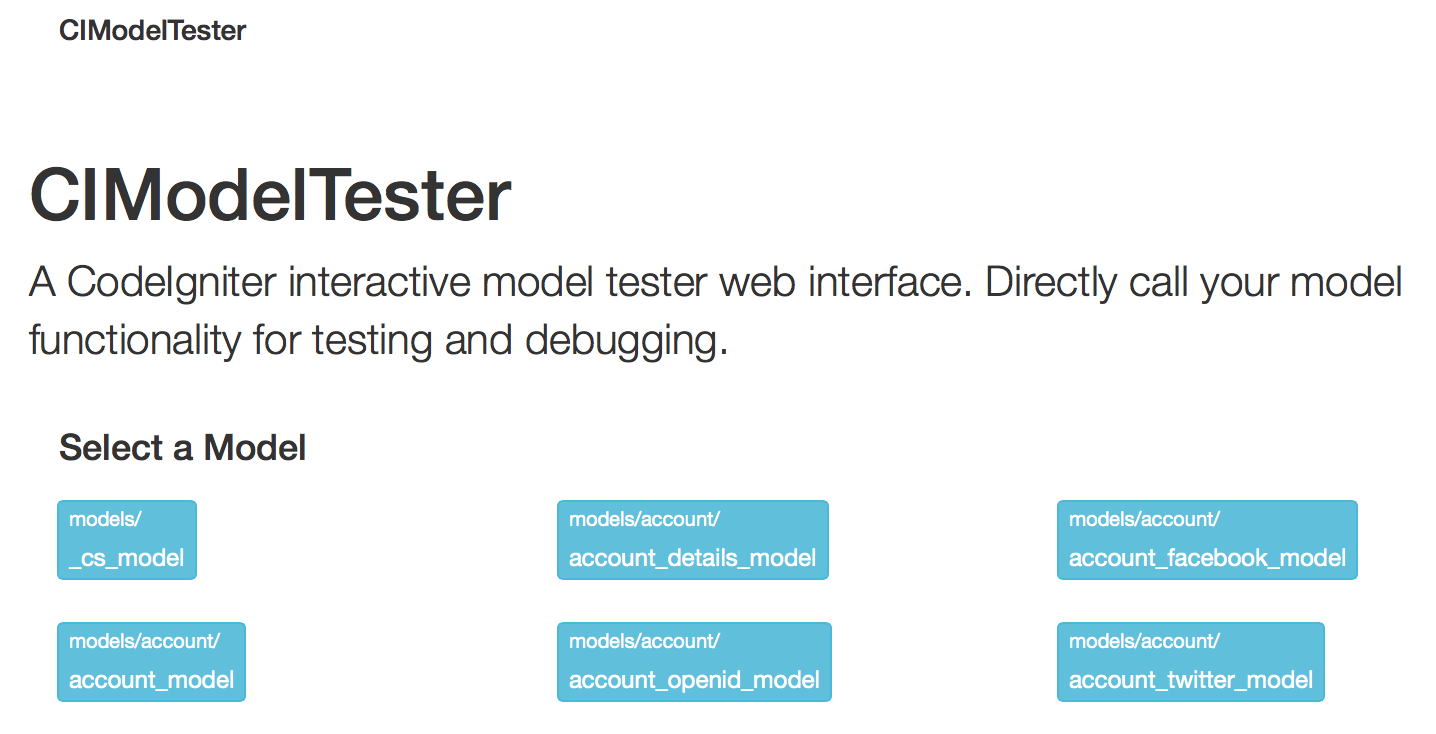
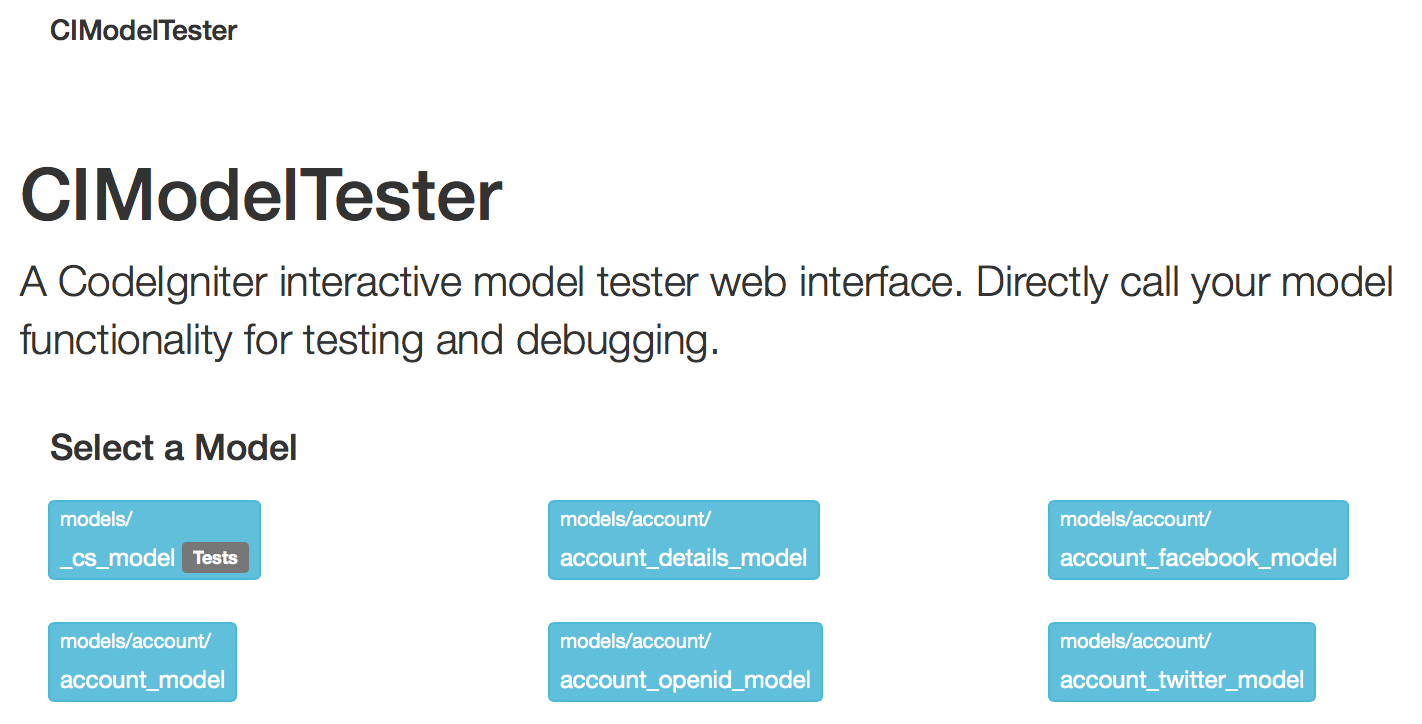
Minor bug fixes. Updated mainpage.png to show the 'Tests' label.

diff --git a/modeltester.php b/modeltester.php
@@ -294,14 +294,16 @@ class CIModelTester extends CI_Controller {
 			$bod .= "    <pre><code>".
 "&lt;?php if ( ! defined('BASEPATH')) exit('No direct script access allowed');\n".
 "\n".
+"require_once('LoadTestData.php');\n".
+"\n".
 "class ".$tvarmodel." extends ".$srcmodel."\n".
 "{\n".
 "    function __construct() { parent::__construct(); }\n".
 "\n".
 "    // Generic Model tests\n".
 "    public function test() {\n".
-"        \$retval = pack_ret(\$v = 1);\n".
-"        \$this->unit->run(\$v,1,'v is 1');\n".
+"        \$retval = LoadData1(); // User created function in LoadTestData.php\n".
+"        [GENERIC TESTS]\n".
 "        return \$retval;\n".
 "    }\n".
 "\n".
@@ -309,7 +311,9 @@ class CIModelTester extends CI_Controller {
 "\n".
 "    // Tests specific to a method\n".
 "    public function test_[YOUR METHOD]() {\n".
-"        \$this->unit->run(1,1,'Is One One');\n".
+"        \$retval = LoadData1();\n".
+"        \$retval = pack_ret(\$v = \$this->[YOUR METHOD]());\n".
+"        \$this->unit->run(\$v,[EXPECTEDRESULT],[TEST NAME]);\n".
 "        return \$retval;\n".
 "    }\n".
 "};\n".
@@ -342,9 +346,10 @@ class CIModelTester extends CI_Controller {
 			$tested   = 0;
 			$tested_failed = 0;
 			foreach( $methods as $m) {
-				if ( ! $m->isConstructor() ) {
-					if( !strpos($m->name,"test_",0) && $m->name != "test" && $m->name != "__get"  ) {
-						$testable++;
+				if ( (! $m->isConstructor()) && ($m->name != "__get")   ) {
+					if( (strpos($m->name,"test_",0)!== 0) && $m->name != "test" && $m->name != "__get" && $m->name != 'onExit'  ) {
+						$testable ++;
+						log_message("debug","testable ".$m->name);
 						$fnd = false;
 						foreach( $methods as $mt) {
 
